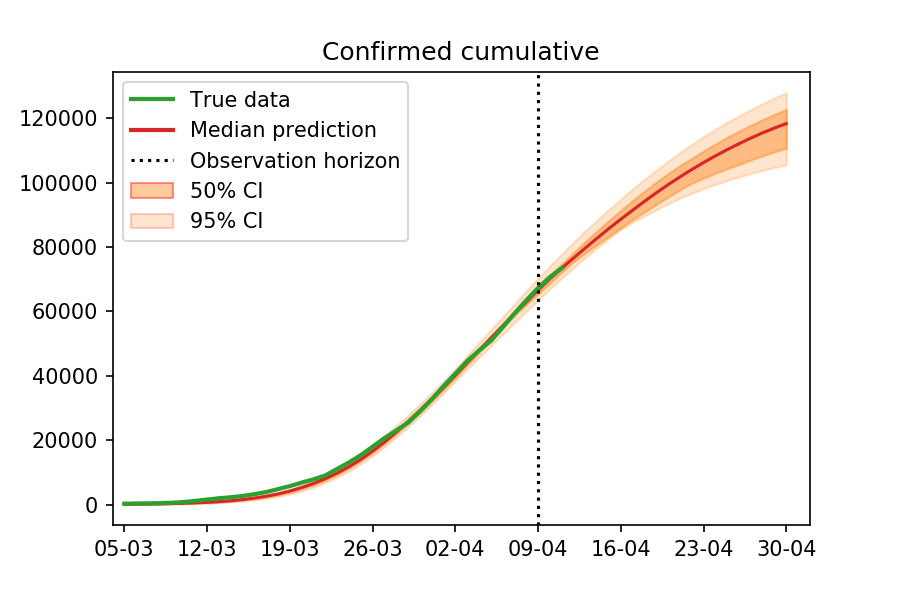
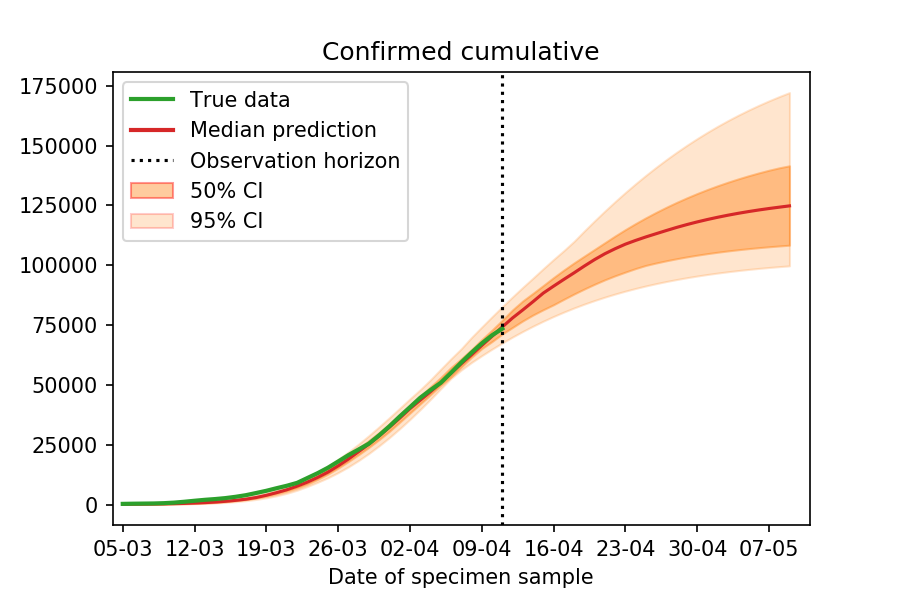
Update prediction

diff --git a/docsource/Prediction.rst b/docsource/Prediction.rst
@@ -25,7 +25,7 @@ Prediction of the total number of infected people who needed hospitalization and
 
 Number of deaths in hospital
 ~~~~~~~~~~~~~~~~~~~~~~~~~~~~~~~~~~~~~~
-Prediction of the number of deaths in hospital per day and total number of deaths.
+Prediction of the number of deaths in hospital per day and total number of deaths. Note that deaths are considered by the date they actually happened, not by reporting date; this is why we are not able to use data more recent than 5 days ago, as reporting takes some time.
 
 .. content-tabs::
 
@@ -34,54 +34,54 @@ Prediction of the number of deaths in hospital per day and total number of death
 
         .. image:: img/total_deaths_per_day.png
 
-        DPD_image (Add image and a line about, true number, projected number and uncertainty)
+        According to this model, we are right now close at the peak of number of deaths per day; note that these are considered by the date the death actually happened, not by reporting date; this is why we are not able to use data more recent than 5 days ago, as reporting takes some time.
+
 
     .. tab-container:: tab2
         :title: Total deaths
 
         .. image:: img/total_deaths.png
 
-        TD_image (Add image and a line about, true number, projected number and uncertainty)
 
 
 Deaths in hospital in each age group
 ~~~~~~~~~~~~~~~~~~~~~~~~~~~~~~~~~~~~~~~~~~~~~~~~~~~
-Prediction of total number of deaths in the 5 age groups: :math:`<20, 20-39, 40-59, 60-79, 80+`.
+Prediction of total number of deaths in the 5 age groups: :math:`0-19,   20-39, 40-59, 60-79, 80+`, versus the day the deaths actually happened.
 
 .. content-tabs::
 
     .. tab-container:: tab1
-        :title:  <20
+        :title:  0-19
         
-        .. image:: img/total_deaths_per_day.png
+        .. image:: img/total_deaths_age_group_0.png
 
     .. tab-container:: tab2
         :title:  20-39
         
-        .. image:: img/total_deaths_per_day.png
+        .. image:: img/total_deaths_age_group_1.png
 
 
     .. tab-container:: tab3
         :title:  40-59
         
-        .. image:: img/total_deaths_per_day.png
+        .. image:: img/total_deaths_age_group_2.png
 
 
     .. tab-container:: tab4
         :title:  60-79
         
-        .. image:: img/total_deaths_per_day.png
+        .. image:: img/total_deaths_age_group_3.png
 
 
     .. tab-container:: tab5
         :title:  80+
         
-        .. image:: img/total_deaths_per_day.png
+        .. image:: img/total_deaths_age_group_4.png
         
 
 Age-specific probabilities
 ~~~~~~~~~~~~~~~~~~~~~~~~~~~~~~~~~~~~~~~~~~~~~~~~~~~~~~
-From our model, we estimate two age-dependent probabilities of (a) needing hospitalization when infected and (b) death.
+From our model, we estimate two age-dependent probabilities of (a) needing hospitalization when infected and (b) death when confirmed positive; we remark again that diagnosis happen in most part when people need clinical care in hospital.
 
 .. content-tabs::
 
@@ -89,14 +89,14 @@ From our model, we estimate two age-dependent probabilities of (a) needing hospi
         :title: Need of hospitalization 
 
         .. image:: img/prob_hospitalisation.png
-        DPD_image (Add image and a line about, true number, projected number and uncertainty)
+        The horizontal line is the median prediction, while the bands width indicates the probability distribution for each value.
 
     .. tab-container:: tab2
         :title: Death
 
         .. image:: img/prob_deceasing.png
 
-        TD_image (Add image and a line about, true number, projected number and uncertainty)
+        The horizontal line is the median prediction, while the bands width indicates the probability distribution for each value.
 
 .. Evolution of :math:`R_0` during the pandemic
     ~~~~~~~~~~~~~~~~~~~~~~~~~~~~~~~~~~~~~~~~~~~~~~~~~~~~~~~~~~~~~~~~~~~~
@@ -107,5 +107,7 @@ From our model, we estimate two age-dependent probabilities of (a) needing hospi
  - Tested people are composed mostly of the ones which are admitted into hospital, or at least they will isolate themselves when tested positive; this is reasonable according to what said on `this government webpage <https://www.gov.uk/guidance/coronavirus-covid-19-information-for-the-public>`_ which reports that, as of the 15th of April, 390,731 out of 417,649 tests were done on people with a medical need and the most essential workers and their families.
  - Restrictive measures as of the 11th April will be kept in place for the prediction horizon; the government announced that such restrictive measures will be kept in place until the DATE, PUT LINK!
  - Once people are tested positive and admitted into hospital, they are isolated, not being able anymore of transmitting the infection.
+
+Moreover, a key assumption of this model is that a persona cannot catch the disease twice; this is still not clear; however, even if this was the case, we expect it not to change too much the dynamics of the epidemics in a first phase, in which a great part of the population is still susceptible anyway. It would of course matter a lot in the long time dynamics.
 
 For more details please check :ref:`Epidemic model <Model>`, :ref:`approximate Bayesian computation <Inference>` and :ref:`Data sources <Data>`.
